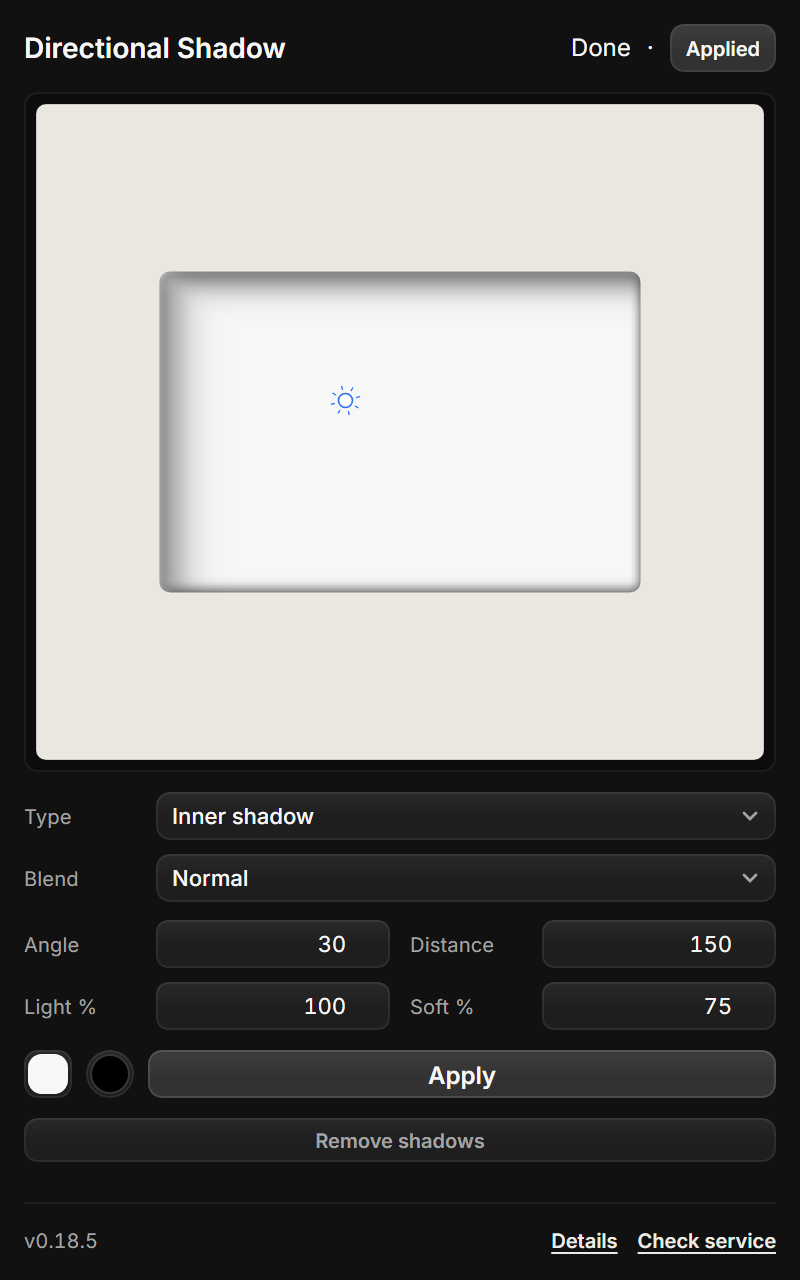
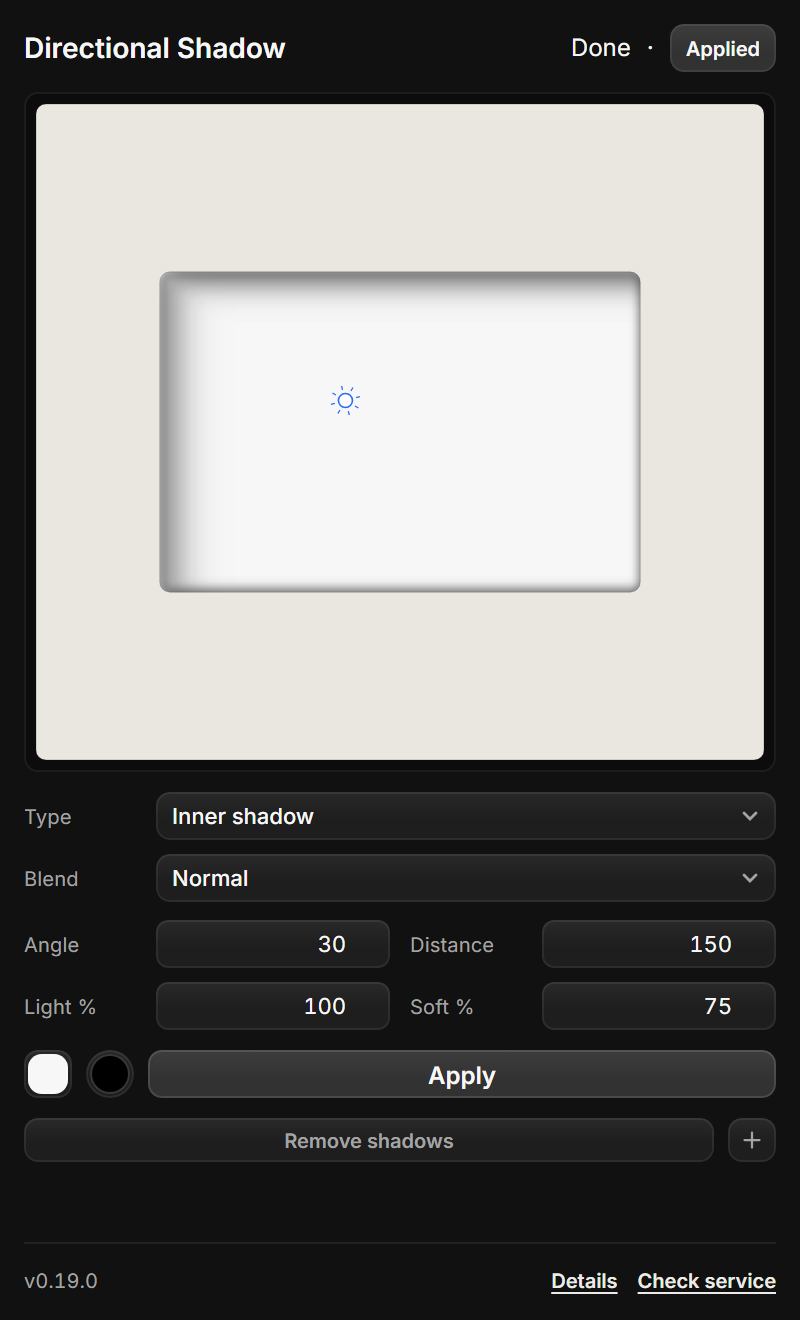
feat: add a plus action to keep shadows across layers
The + button beside Remove shadows applies the current shadow to the
selected layer without restoring the previous layer, so shadows can be
added across several layers one after another.

Adds tools/ui-check.cjs and drops the stale hint element reference.

diff --git a/plugin/app.js b/plugin/app.js
@@ -32,7 +32,7 @@ const el = {
   colour: document.getElementById("colour"),
   apply: document.getElementById("apply"),
   removePreview: document.getElementById("removePreview"),
-  hint: document.getElementById("hint"),
+  addShadow: document.getElementById("addShadow"),
   status: document.getElementById("status"),
   meta: document.getElementById("meta"),
   previewCanvas: document.getElementById("previewCanvas"),
@@ -163,6 +163,7 @@ function setBusy(value) {
   busy = value;
   el.apply.disabled = value;
   el.removePreview.disabled = value;
+  el.addShadow.disabled = value;
 }
 
 /* ---------- direction preview ---------- */
@@ -603,6 +604,7 @@ async function selectedLayer() {
 
 function markPreview() {
   el.removePreview.hidden = !preview;
+  el.addShadow.hidden = !preview;
 }
 
 async function dropPreview() {
@@ -652,6 +654,32 @@ async function runApply() {
     badge("Failed", "danger");
     setStatus(errText(error));
     addDetail("apply failed: " + errText(error));
+  } finally {
+    setBusy(false);
+  }
+}
+
+async function runAddShadow() {
+  if (busy || !preview) return;
+  setBusy(true);
+  badge("Working…", "busy");
+  const previous = preview;
+  preview = null; // keep the written shadows; this Apply adds to the selected layer instead of replacing
+  markPreview();
+  try {
+    lastParams = readParams();
+    setStatus("adding " + Shadow.STEPS + " shadows…");
+    await build();
+    await api.settings.set({ shadow: lastParams, preview: { objectColour } }).catch(() => {});
+    badge("Applied", "ok");
+    setStatus("shadow added; select another layer to add the next one");
+    addDetail("added shadows to the selected layer");
+  } catch (error) {
+    preview = previous;
+    markPreview();
+    badge("Failed", "danger");
+    setStatus(errText(error));
+    addDetail("add failed: " + errText(error));
   } finally {
     setBusy(false);
   }
@@ -714,6 +742,7 @@ function wire() {
     if (event.target === el.detailsOverlay) el.detailsOverlay.hidden = true;
   });
   el.removePreview.addEventListener("click", () => void runRemovePreview());
+  el.addShadow.addEventListener("click", () => void runAddShadow());
 }
 
 async function init() {
@@ -729,7 +758,7 @@ async function init() {
   setColour(el.colour.value, { quiet: true });
   badge("Ready", "ok");
   setStatus("drag the light, then Preview");
-  addDetail("panel ready · v0.18.1");
+  addDetail("panel ready · v0.19.0");
   await refreshSelection();
   setInterval(refreshSelection, 2000);
   drawPreview();

diff --git a/plugin/index.html b/plugin/index.html
@@ -115,11 +115,14 @@
       </div>
       <div class="actions">
         <button id="removePreview" class="button quiet" type="button" hidden>Remove shadows</button>
+        <button id="addShadow" class="button quiet icon-only" type="button" hidden
+          title="Add shadows to the selected layer without removing the previous ones"
+          aria-label="Add shadows to the selected layer"><svg width="12" height="12" viewBox="0 0 16 16" fill="none" stroke="currentColor" stroke-width="1.5" stroke-linecap="round" aria-hidden="true"><path d="M8 3v10M3 8h10"/></svg></button>
       </div>
 
 
       <footer class="panel-footer">
-        <span id="version">v0.18.5</span>
+        <span id="version">v0.19.0</span>
         <div class="footer-actions">
           <button id="detailsBtn" class="link-button" type="button">Details</button>
           <button id="serviceBtn" class="link-button" type="button">Check service</button>

diff --git a/plugin/panel.css b/plugin/panel.css
@@ -605,6 +605,13 @@ select.input option {
   color: var(--sh-text);
 }
 
+/* square icon button beside Remove shadows: adds to another layer without dropping the last one */
+.button.icon-only {
+  flex: none;
+  width: 24px;
+  padding: 0;
+}
+
 .panel-footer {
   display: flex;
   align-items: center;

diff --git a/README.md b/README.md
@@ -33,12 +33,14 @@ No service, no network, no dependencies.
 
 Drag the sun to aim the shadow (it falls on the opposite side), then press **Apply**.
 **Remove shadows** restores the styles from before the last Apply; applying again replaces the
-previous result instead of stacking.
+previous result instead of stacking. After an Apply, the **+** button beside **Remove shadows**
+adds another set to the currently selected layer without touching the previous layers, so you can
+select each layer in turn and keep every shadow.
 
 | Field | Range | Default | Meaning |
 | --- | --- | --- | --- |
-| `A °` | 0–360 | 30 | Shadow direction: 0° right, 90° down |
-| `D px` | 1–300 | 150 | How far the shadow travels |
+| `Angle` | 0–360 | 30 | Shadow direction: 0° right, 90° down |
+| `Distance` | 1–300 | 150 | How far the shadow travels |
 | `Light %` | 1–100 | 100 | Scales every layer's opacity |
 | `Soft %` | 1–100 | 75 | Scales the blur of every step |
 | `Type` | Drop / Inner shadow | Drop | Which layer style to write |
@@ -46,6 +48,7 @@ previous result instead of stacking.
 | square swatch | custom picker | `#f7f7f7` | Preview box colour; also opens by clicking the white card |
 | round swatch | custom picker | black | Shadow colour |
 | white card | click | `#f7f7f7` | Opens the box-colour picker |
+| `+` button | click | hidden | Applies the current shadow to the selected layer without removing the previous shadows; appears after an Apply |
 
 Five fixed steps (farthest → nearest). Offsets are `distance × 1 / .64 / .36 / .16 / .04`, opacities
 `lighting × 2 / 15 / 50 / 85 / 98 %`, and each shadow has its **own blur**:
@@ -58,8 +61,9 @@ pointing at θ is written as `180 − θ`.
 ## Testing
 
 ```powershell
-node tools/shadow-test.cjs     # 21 tests: presets, angle, payloads, styles
+node tools/shadow-test.cjs     # 23 tests: presets, angle, payloads, styles
 node tools/colour-test.cjs     # 6 tests: hex/rgb/hsv maths for the picker
+node tools/ui-check.cjs        # ids and el keys used by app.js exist in index.html
 node tools/bench.cjs           # operation counts and maths timings
 ```
 
@@ -69,11 +73,19 @@ An Apply sends four operations: `documents.active` ×2, `effect.describe`, `laye
 
 - Use **Apply** to commit; the canvas preview is an approximation, not a render of the result.
 - Layer styles cannot be removed individually by the plugin API, so **Remove shadows** restores the
-  whole styles snapshot.
+  whole styles snapshot of the last Apply or **+**. The **+** button itself never restores the
+  previous layer, so build across layers first and undo only the last added set.
 
 MIT licensed — see [LICENSE](LICENSE).
 
 ## Changelog
+
+### 0.19.0
+
+- Added a **+** button beside **Remove shadows**: it applies the current shadow to the selected layer
+  without restoring the previous layer, so shadows can be added across several layers one after
+  another. **Remove shadows** still restores only the last added set.
+- Added a static UI check (`tools/ui-check.cjs`).
 
 ### 0.18.5
 
